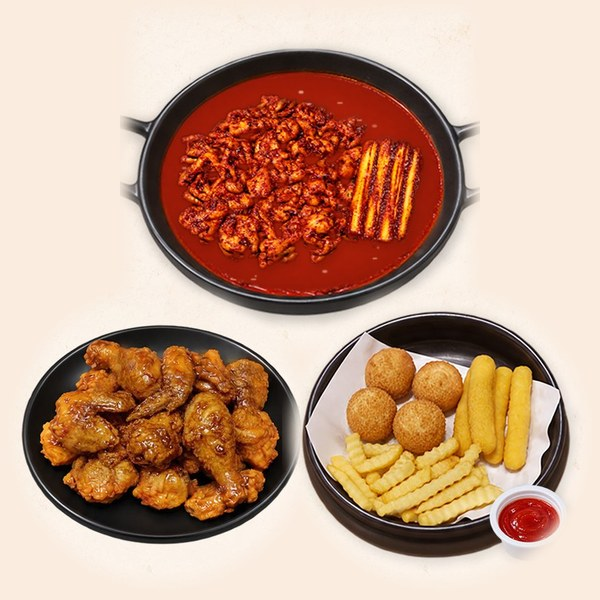
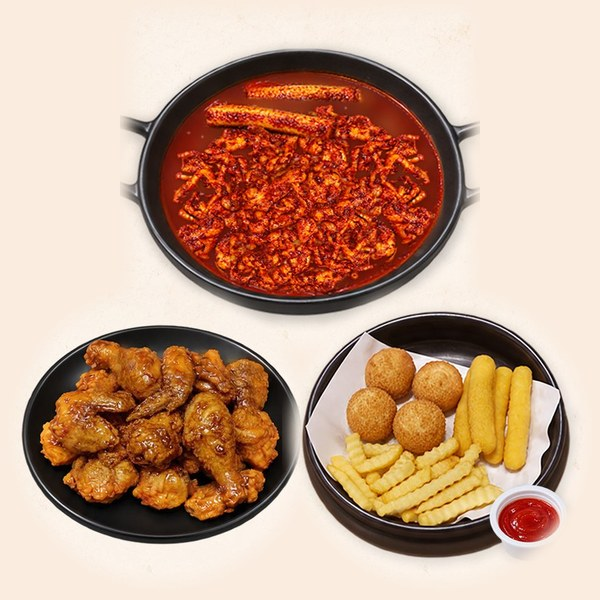
무뼈 국물닭발 사진 다시 (원래 국물닭발 사진처럼)
Claude-Session: https://claude.ai/code/session_012zciFWePuk9SL5pa5dFbqt

Changed region(s): [[0.27, 0.12, 0.75, 0.51]]

diff --git a/paltong-site-upload/menu.js b/paltong-site-upload/menu.js
@@ -166,10 +166,10 @@ window.PALTONG_MENU_IMG = {
     "뼈|간장|치즈볼만 (8pcs)":"images/menu/set_lady_bone_soy_8.jpg",
     "뼈|양념|치즈볼(4pcs)+치즈스틱+감튀":"images/menu/set_lady_bone_yang_mix.jpg",
     "뼈|양념|치즈볼만 (8pcs)":"images/menu/set_lady_bone_yang_8.jpg",
-    "무뼈|간장|치즈볼(4pcs)+치즈스틱+감튀":"images/menu/set_lady_nobone_soy_mix.jpg",
-    "무뼈|간장|치즈볼만 (8pcs)":"images/menu/set_lady_nobone_soy_8.jpg",
-    "무뼈|양념|치즈볼(4pcs)+치즈스틱+감튀":"images/menu/set_lady_nobone_yang_mix.jpg",
-    "무뼈|양념|치즈볼만 (8pcs)":"images/menu/set_lady_nobone_yang_8.jpg",
+    "무뼈|간장|치즈볼(4pcs)+치즈스틱+감튀":"images/menu/set_lady_nobone_soy_mix.jpg?v=2",
+    "무뼈|간장|치즈볼만 (8pcs)":"images/menu/set_lady_nobone_soy_8.jpg?v=2",
+    "무뼈|양념|치즈볼(4pcs)+치즈스틱+감튀":"images/menu/set_lady_nobone_yang_mix.jpg?v=2",
+    "무뼈|양념|치즈볼만 (8pcs)":"images/menu/set_lady_nobone_yang_8.jpg?v=2",
   } },
   set_beerfit:     "images/menu/set_beerfit.jpg?v=2",       // 비어핏 세트
   set_redsamgyeop: { option:"주먹밥", by:{ "참치마요":"images/menu/set_redsamgyeop_tuna.jpg", "날치알":"images/menu/set_redsamgyeop_nalchi.jpg" } },  // 빨간 삼겹 세트
@@ -177,7 +177,7 @@ window.PALTONG_MENU_IMG = {
 
   /* 메인 안주류 */
   jikhwa_dakbal:      "images/menu/jikhwa_dakbal.jpg",       // 직화 닭발 (무뼈 사진)
-  gukmuldakbal:       { option:"부위", by:{ "뼈":"images/menu/gukmul_dakbal.jpg", "무뼈":"images/menu/gukmul_dakbal_boneless.jpg" } },  // 국물닭발 (무뼈 사진은 직화 무뼈를 국물로 합성)
+  gukmuldakbal:       { option:"부위", by:{ "뼈":"images/menu/gukmul_dakbal.jpg", "무뼈":"images/menu/gukmul_dakbal_boneless.jpg?v=2" } },  // 국물닭발 (무뼈 사진은 직화 무뼈를 국물로 합성)
   gomjangeo:          "images/menu/gomjangeo.jpg",           // 꼼장어
   redwing:            "images/menu/redwing.jpg",             // 빨간 날개
   dakdoritang:        "images/menu/dakdoritang.jpg",         // 닭도리탕
